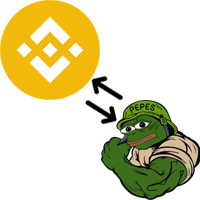
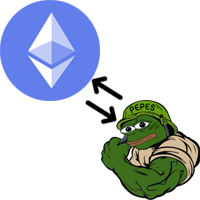
update

Changed region(s): [[0.0, 0.0, 0.51, 0.51]]

diff --git a/index.html b/index.html
@@ -1,17 +1,6 @@
 <!DOCTYPE html>
 <html class="no-js" lang="">
     <head>
-
-<!-- Google tag (gtag.js) -->
-<script async src="https://www.googletagmanager.com/gtag/js?id=G-WPQR53EXWP"></script>
-<script>
-  window.dataLayer = window.dataLayer || [];
-  function gtag(){dataLayer.push(arguments);}
-  gtag('js', new Date());
-
-  gtag('config', 'G-WPQR53EXWP');
-</script>
-
         <meta charset="UTF-8">
         <meta name="viewport" content="width=device-width, initial-scale=1.0, maximum-scale=1">
         <meta http-equiv="X-UA-Compatible" content="ie=edge">
@@ -51,7 +40,7 @@
         <div class="header-area navbar navbar-expand-lg sticky-top" id="navbar-wrapper">
             <div class="container align-items-center">
                 <a href="#" class="navbar-brand me-auto">
-                    <img class="logo" src="assets/img/top_banner.png" alt="">
+                    <img class="logo" src="assets/img/logo.png" alt="logo">
                 </a>
                 <div class="collapse navbar-collapse justify-content-end" id="navbar">
                     <ul class="navbar-nav">
@@ -62,7 +51,7 @@
                         <li class="nav-item"><a href="#roadmap" class="nav-link">Roadmap</a></li>
                     </ul>
                 </div>
-                <a href="https://www.pinksale.finance/launchpad/0xBE7962e933eEDc33eEd8B6C96A1407cDF09c9936?chain=BSC" target="_blank" class="btn btn-border-green">Fair Launch</a>
+                <a href="#" target="_blank" class="btn btn-border-green">Buy $PEPES</a>
                 <button class="navbar-toggler collapsed" type="button" data-bs-toggle="collapse" data-bs-target="#navbar" aria-controls="navbar" aria-expanded="false" aria-label="Toggle navigation">
                     <span></span>
                     <span></span>
@@ -84,15 +73,14 @@
                           <h2 class="text-sh title">$PEPES</h2>
                             <p>The most memeable memecoin in existence. The dogs have had their day, it’s time for Pepes to take reign.</p>
                             <ul class="bookmarks">
-                                <li><a href="https://twitter.com/pepessoldier" target="_blank"><img src="assets/img/twitter.webp" alt="Twitter"></a></li>
-                                <li><a href="https://t.me/pepesone" target="_blank"><img src="assets/img/telegram.webp" alt="Telgram"></a></li>
-                                <li><a href="https://www.dexview.com/bsc/0x9D0bCc84e55774CBE58CC68E507490bA2d0eF897" target="_blank"><img src="assets/img/dexview.png" alt="DEXView"></a></li>
-                                <li><a href="https://bscscan.com/token/0x9D0bCc84e55774CBE58CC68E507490bA2d0eF897" target="_blank"><img src="assets/img/bscscan.webp" alt="bscscan"></a></li>
-                                <li><a href="https://www.pinksale.finance/launchpad/0xBE7962e933eEDc33eEd8B6C96A1407cDF09c9936?chain=BSC" target="_blank"><img src="assets/img/pinksale.png" alt="Pinksale"></a></li>
-                                <li><a href="https://pancakeswap.finance/swap?outputCurrency=0x9D0bCc84e55774CBE58CC68E507490bA2d0eF897" target="_blank"><img src="assets/img/cake.png" alt="Pancakeswap"></a></li>
+                              <li><a href="https://twitter.com/pepessoldier" target="_blank"><img src="assets/img/twitter.webp" alt="Twitter"></a></li>
+                              <li><a href="https://t.me/pepesone" target="_blank"><img src="assets/img/telegram.webp" alt="Telgram"></a></li>
+                              <li><a href="#" target="_blank"><img src="assets/img/dextools.webp" alt="DexTools"></a></li>
+                              <li><a href="#" target="_blank"><img src="assets/img/etherscan.webp" alt="Etherscan"></a></li>
+                              <li><a href="#" target="_blank"><img src="assets/img/uniswap.webp" alt="Uniswap"></a></li>
                             </ul>
                             <div class="hero-buttons">
-                                <a href="https://www.pinksale.finance/launchpad/0xBE7962e933eEDc33eEd8B6C96A1407cDF09c9936?chain=BSC" class="btn btn-border-green" target="_blank">PinkSale(Fair Launch)</a>
+                                <a href="#" class="btn btn-border-green">Buy $PEPES</a>
                             </div>
                         </div>
                     </div>
@@ -112,7 +100,7 @@
                         <div class="about-text">
                             <h2 class="text-sh title">About</h2>
                             <p>Pepe is tired of watching everyone play hot potato with the endless derivative Shiba CumGM Elon Kishu Turbo Ass Floki Moon Inu coins. The Inu’s have had their day. It’s time for the most recognizable meme in the world to take his reign as king of the memes.</p>
-                            <p>Pepescoin is here to make memecoins great again. Launched stealth with no team token, zero taxes, LP locked and contract renounced, $PEPES is a coin for the people, forever. Fueled by pure memetic power, let $PEPES show you the way.</p>
+                            <p>Pepescoin is here to make memecoins great again. Launched stealth with no team token, 1% taxes, LP locked and contract renounced, $PEPES is a coin for the people, forever. Fueled by pure memetic power, let $PEPES show you the way.</p>
                         </div>
                     </div>
                 </div>
@@ -135,21 +123,21 @@
                         </div>
                         <div class="single-box">
                             <div class="box-icon">
-                                <img src="assets/img/bsc.png" alt="BSC" style="max-width:50px;">
+                                <img src="assets/img/eth.png" alt="eth" style="max-width:50px;">
                             </div>
                             <div class="icon-text">
-                                <h3>Get Some BNB</h3>
-                                <span>have BNB in your wallet to switch to $PEPES. If you don’t have any BNB, you can buy directly on metamask, transfer from another wallet, or buy on another exchange and send it to your wallet.</span>
+                                <h3>Get Some ETH</h3>
+                                <span>have ETH in your wallet to switch to $PEPES. If you don’t have any ETH, you can buy directly on metamask, transfer from another wallet, or buy on another exchange and send it to your wallet.</span>
                             </div>
                         </div>
                         <div class="single-box">
                             <div class="box-icon">
-                                <img src="assets/img/cake.png" alt="Pancakeswap" style="max-width:50px;">
+                                <img src="assets/img/uniswap.webp" alt="Uniswap" style="max-width:50px;">
                             </div>
                             <div class="icon-text">
-                                <h3>Go to Pancakeswap</h3>
-                                <span>connect to Pancakeswap. Go to pancakeswap.finance in google chrome or on the browser inside your Metamask app. Connect your wallet. Paste the $PEPES token address into Pancakeswap, select Pepes, and confirm. When Metamask prompts you for a wallet signature, sign.
-                                <a href='https://pancakeswap.finance/swap?outputCurrency=0x9D0bCc84e55774CBE58CC68E507490bA2d0eF897' style="color:white" target="_blank">Click here to buy at Pancakeswap</a>.</span>
+                                <h3>Go to Uniswap</h3>
+                                <span>connect to Uniswap. Go to app.uniswap.org in google chrome or on the browser inside your Metamask app. Connect your wallet. Paste the $PEPES token address into Uniswap, select Pepes, and confirm. When Metamask prompts you for a wallet signature, sign.
+                                <a href='https://app.uniswap.org/swap?outputCurrency=' style="color:white" target="_blank">Click here to buy at Uniswap</a>.</span>
                             </div>
                         </div>
                         <div class="single-box">
@@ -157,13 +145,13 @@
                                 <img src="assets/img/swap.png" alt="Swap" style="max-width:50px;">
                             </div>
                             <div class="icon-text">
-                                <h3>Switch BNB for $PEPES</h3>
-                                <span>switch BNB for $PEPES. We have ZERO taxes so you don’t need to worry about buying with a specific slippage, although you may need to use slippage during times of market volatility.</span>
+                                <h3>Switch ETH for $PEPES</h3>
+                                <span>switch ETH for $PEPES. We have 1% taxes so you don’t need to worry about buying with a specific slippage, although you may need to use slippage during times of market volatility.</span>
                             </div>
                         </div>
                     </div>
                 </div>
-                <iframe src="https://pancakeswap.finance/swap?outputCurrency=0x9D0bCc84e55774CBE58CC68E507490bA2d0eF897" height="660px" width="100%" style="
+                <iframe src="https://app.uniswap.org/swap?outputCurrency=" height="660px" width="100%" style="
                     border: 0;
                     margin: 0 auto;
                     display: block;
@@ -187,13 +175,13 @@
                 <div class="row align-items-center">
                     <div class="col-lg-6 order-lg-1">
                         <div class="chart">
-                            <img src="assets/img/pepe_no_tax.png" alt="">
+                            <img src="assets/img/pepe_tax.png" alt="">
                         </div>
                     </div>
                     <div class="col-lg-6 order-lg-0">
-                      <h3 class="text-center">Supply <br> 420,690,000,000,000</h3>
+                      <h3 class="text-center">Supply <br> 100,000,000</h3>
                         <div class="box">
-                            <p>No Taxes, No Team Token, No Bullshit. It’s that simple.</p>
+                            <p>1% Taxes, No Team Token, No Bullshit. It’s that simple.</p>
                             <p>93.1% of the tokens were sent to the liquidity pool, LP tokens were locked, and contract is renounced.
                               The remaining 6.9% of the supply is being held in a wallet only to be used as tokens for future centralized exchange listings, bridges, and liquidity pools.
                             </p>
@@ -234,14 +222,10 @@
                             <ul>
                                 <li>Launch</li>
                                 <li>CoinGecko/Coinmarketcap Listings</li>
-                                <li>69,000+ Holders</li>
+                                <li>420+ Holders</li>
                                 <li>Get $PEPES Trending on twitter with our memetic power</li>
-                                <li>Pepe Image AI</li>
-                                <li>Pepe Contract Scanner</li>
-                                <li>Pepe GPT-4</li>
                                 <li>Media Release at Bloomberg, MarketWatch, Yahoo.</li>
-                                <li>BitKeep, Trust Wallet, Token Pocket, Ave, BscScan updates.</li>
-                                <li>Few Tier 1/2 Exchange Listing</li>
+                                <li>BitKeep, Trust Wallet, Token Pocket, Ave, Etherscan updates.</li>
                             </ul>
                         </div>
                     </div>
@@ -249,14 +233,11 @@
                         <div class="box">
                             <h2 class="text-center">Phase 2</h2>
                             <ul>
-                                <li>420,690+ Holders</li>
-                                <li>Community Partnerships Pepe Times digital newsletter</li>
-                                <li>Pepe Payment Gateway / Processor</li>
-                                <li>Pepe Wallet</li>
-                                <li>Pepe MEV Launch</li>
-                                <li>Formation of token gated discord group, Pepe Palace, for holders, more details tba</li>
-                                <li>CEX Listings 10,000+holders</li>
-                                <li>Few Tier 1/2 Exchange Listing</li>
+                                <li>Community Partnerships Pepes Times digital newsletter</li>
+                                <li>Pepes Wallet</li>
+                                <li>Pepes MEV Launch</li>
+                                <li>Formation of token gated discord group, Pepes Palace, for holders, more details tba</li>
+                                <li>6900+ Holders</li>
                             </ul>
                         </div>
                     </div>
@@ -264,13 +245,12 @@
                         <div class="box">
                             <h2 class="text-center">Phase 3</h2>
                             <ul>
-                                <li>690,420+ Holders</li>
-                                <li>Pepe merch</li>
-                                <li>Pepe Academy</li>
-                                <li>Pepe Tools</li>
-                                <li>T1 Exchange Listings 100,000+ holders</li>
+                                <li>Pepes Merch</li>
+                                <li>Pepes Academy</li>
+                                <li>Pepes Tools</li>
+                                <li>Global Marketing</li>
+                                <li>69,000+ Holders</li>
                                 <li>Meme Takeover</li>
-                                <li>Few Tier 1 Cex Listing</li>
                             </ul>
                         </div>
                     </div>
@@ -282,17 +262,16 @@
             <div class="container">
                 <div class="col-md-12">
                     <div class="footer-logo">
-                        <img src="assets/img/logo_256px.png" alt="" class="logo">
+                        <img src="assets/img/footer-img.webp" alt="" >
                     </div>
                     <p>$PEPES coin has no association with Matt Furie or his creation Pepe the Frog. This token is simply paying homage to a meme we all love and recognize.</p>
                     <p>$PEPES is a meme coin with no intrinsic value or expectation of financial return. There is no formal team or roadmap. the coin is completely useless and for entertainment purposes only.</p>
                     <ul class="bookmarks">
                         <li><a href="https://twitter.com/pepessoldier" target="_blank"><img src="assets/img/twitter.webp" alt="Twitter"></a></li>
                         <li><a href="https://t.me/pepesone" target="_blank"><img src="assets/img/telegram.webp" alt="Telgram"></a></li>
-                        <li><a href="https://www.dexview.com/bsc/0x9D0bCc84e55774CBE58CC68E507490bA2d0eF897" target="_blank"><img src="assets/img/dexview.png" alt="DEXView"></a></li>
-                        <li><a href="https://bscscan.com/token/0x9D0bCc84e55774CBE58CC68E507490bA2d0eF897" target="_blank"><img src="assets/img/bscscan.webp" alt="bscscan"></a></li>
-                        <li><a href="https://www.pinksale.finance/launchpad/0xBE7962e933eEDc33eEd8B6C96A1407cDF09c9936?chain=BSC" target="_blank"><img src="assets/img/pinksale.png" alt="Pinksale"></a></li>
-                        <li><a href="https://pancakeswap.finance/swap?outputCurrency=0x9D0bCc84e55774CBE58CC68E507490bA2d0eF897" target="_blank"><img src="assets/img/cake.png" alt="Pancakeswap"></a></li>
+                        <li><a href="#" target="_blank"><img src="assets/img/dextools.webp" alt="DexTools"></a></li>
+                        <li><a href="#" target="_blank"><img src="assets/img/etherscan.webp" alt="Etherscan"></a></li>
+                        <li><a href="#" target="_blank"><img src="assets/img/uniswap.webp" alt="Uniswap"></a></li>
                     </ul>
                 </div>
             </div>
@@ -300,8 +279,8 @@
 
         <div class="footer-area">
             <div class="copyright">
-                <p>Contract (Binance Smart Chain):<br/> <b></b>0x9D0bCc84e55774CBE58CC68E507490bA2d0eF897<b></b></p>
-                <p>Any enquiries may contact us at <a href="https://t.me/pepesone">PEPES Team</a></p>
+                <p>Contract (ETH Chain):<br/></p>
+                <p>Any enquiries may contact us at <a href="https://t.me/pepesone" target="_blank">PEPES Team</a></p>
             </div>
         </div>
 

diff --git a/assets/css/style.css b/assets/css/style.css
@@ -156,6 +156,7 @@ ul.bookmarks {
     align-items: center;
     justify-content: center;
     gap: 20px;
+        margin: 40px;
 }
 
 ul.bookmarks li a {
@@ -361,8 +362,6 @@ ul.bookmarks li a:hover {
 .single-box {
     background: #264A20;
     border: 2px solid #EAECE3;
-    --shd: 0.00px 0.00px 50px 20px rgba(255, 254, 248, 0.18);
-    box-shadow: var(--shd, 0 1px 4px rgba(0, 0, 0, .6));
     margin: 0 0 30px;
     border-radius: 0 30px;
     display: flex;
@@ -391,8 +390,6 @@ ul.bookmarks li a:hover {
     border-radius: 0 30px;
     background: #264A20;
     border: 2px solid #EAECE3;
-    --shd: 0.00px 0.00px 50px 20px rgba(255, 254, 248, 0.18);
-    box-shadow: var(--shd, 0 1px 4px rgba(0, 0, 0, .6));
 }
 .roadmap-header {
     display: flex;
